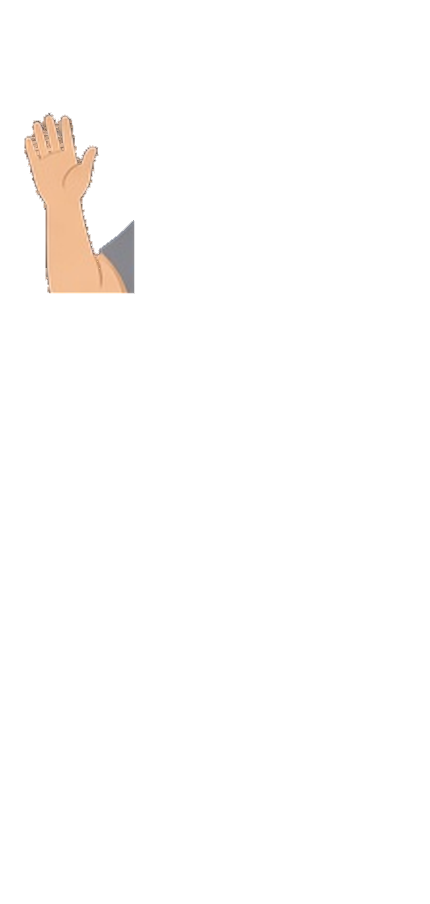
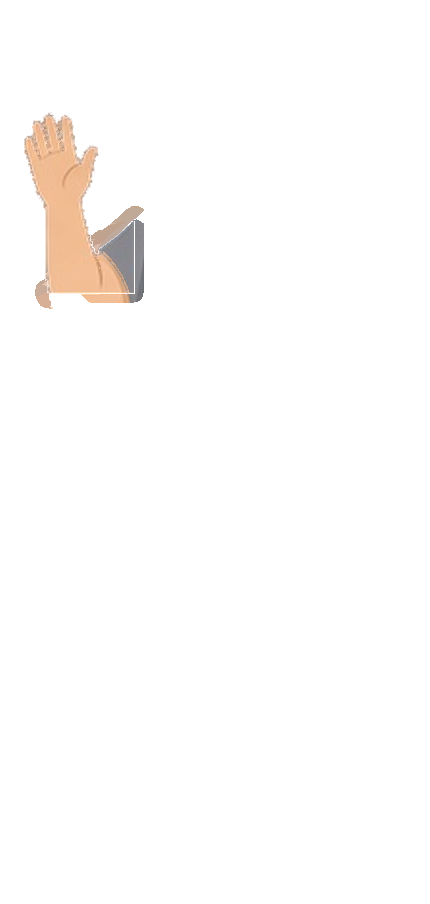
흔드는 팔의 이음새와 도넛 얼룩을 지우고 볼·하트·땀방울을 다듬는다.
팔 레이어와 소매 사이의 빈틈을 피부로 메워 어떤 각도에서도 검은 선이 보이지 않게 하고, 도넛과 손 사이의 남색 가장자리를 걷어냈다. 안기는 둥근 볼홍조와 밝은 하트만 남기고, 땀방울은 이마 옆에서 볼까지만 내려간다.

Changed region(s): [[0.1814, 0.2168, 0.3326, 0.3407], [0.0605, 0.2168, 0.1209, 0.3407], [0.0907, 0.1239, 0.1814, 0.1549]]

diff --git a/test/parse.test.js b/test/parse.test.js
@@ -113,18 +113,18 @@ assert.ok(ratio > 0.15 && ratio < 0.4, 'empty month keeps calendar space ' + rat
 const round = data.by.B[data.by.B.length - 1];
 const fig = I.bodySVG(round, '#c08cff', '', 183);
 assert.ok(fig.indexOf('bodyfig') >= 0 && fig.indexOf('NaN') < 0, 'silhouette');
-assert.ok(fig.indexOf('img/body/pose_bf30.webp?v=20261007e') >= 0, '30% pose');
+assert.ok(fig.indexOf('img/body/pose_bf30.webp?v=20261007f') >= 0, '30% pose');
 assert.ok(fig.indexOf('pose-poke') >= 0 && fig.indexOf('bf-over') < 0, 'nearest pose, no crossfade');
 assert.ok(fig.indexOf('pose_bf35') < 0, '30.8 stays on the 30 pose');
 const mid = I.bodySVG({ pbf: 23, height: 180 }, '#7c9cff', '', 180);
-assert.ok(mid.indexOf('pose-donut') >= 0 && mid.indexOf('pose_bf25.webp?v=20261007e') >= 0, '23% uses the donut pose');
+assert.ok(mid.indexOf('pose-donut') >= 0 && mid.indexOf('pose_bf25.webp?v=20261007f') >= 0, '23% uses the donut pose');
 assert.ok(mid.indexOf('pose_bf20') < 0, '23% does not mix poses');
 const lean = I.bodySVG({ pbf: 12.4, height: 183 }, '#7c9cff', '', 183);
-assert.ok(lean.indexOf('pose-flex') >= 0 && lean.indexOf('pose_bf10.webp?v=20261007e') >= 0, '12.4 flexes');
+assert.ok(lean.indexOf('pose-flex') >= 0 && lean.indexOf('pose_bf10.webp?v=20261007f') >= 0, '12.4 flexes');
 const exact = I.bodySVG({ pbf: 20, height: 180 }, '#7c9cff', '', 180);
 assert.ok(exact.indexOf('pose-wave') >= 0 && exact.indexOf('bf-over') < 0, 'exact anchor is one pose');
 const html = fs.readFileSync(path.join(root, 'index.html'), 'utf8');
-assert.ok(html.indexOf('styles.css?v=20261007e') >= 0 && html.indexOf('app.js?v=20261007e') >= 0, 'cache bust');
+assert.ok(html.indexOf('styles.css?v=20261007f') >= 0 && html.indexOf('app.js?v=20261007f') >= 0, 'cache bust');
 const shape = I.bodyShape(round);
 assert.ok(shape.f > 0.85, 'high body fat is round ' + shape.f);
 assert.ok(shape.m < 0.7, 'muscle stays skeletal ' + shape.m);

diff --git a/styles.css b/styles.css
@@ -255,16 +255,30 @@ h1 {
 }
 .floater { animation: pose-float 3.4s ease-in-out infinite; animation-delay: var(--phase, 0s); }
 .heart {
-  color: #ff8fab;
-  font-size: calc(var(--fig-h, 168px) * var(--h, 1) * .1);
-  margin-left: -.45em;
+  width: 8.4%;
+  height: 8.4%;
+  margin: -4.2% 0 0 -4.2%;
 }
-.marks {
-  color: #ff9cb4;
-  font-weight: 800;
-  letter-spacing: -.14em;
-  font-size: calc(var(--fig-h, 168px) * var(--h, 1) * .065);
+.heart b {
+  display: block;
+  width: 52%;
+  height: 52%;
+  margin: 28% 0 0 24%;
+  background: #ff3b6a;
+  position: relative;
+  transform: rotate(45deg);
 }
+.heart b::before,
+.heart b::after {
+  content: "";
+  position: absolute;
+  width: 100%;
+  height: 100%;
+  background: #ff3b6a;
+  border-radius: 50%;
+}
+.heart b::before { left: -50%; }
+.heart b::after { top: -50%; }
 @keyframes pose-flex {
   0%, 100% { transform: translateY(0) rotate(0deg); }
   16% { transform: translateY(-10px) rotate(-3.4deg); }
@@ -319,10 +333,10 @@ h1 {
   40% { opacity: 1; }
 }
 @keyframes pose-sweat {
-  0%, 12% { opacity: 0; transform: translateY(0); }
-  28% { opacity: .95; transform: translateY(10%); }
-  78% { opacity: .55; transform: translateY(280%); }
-  100% { opacity: 0; transform: translateY(420%); }
+  0%, 16% { opacity: 0; transform: translateY(0); }
+  30% { opacity: .95; transform: translateY(6%); }
+  68% { opacity: .55; transform: translateY(55%); }
+  100% { opacity: 0; transform: translateY(90%); }
 }
 @keyframes pose-float {
   0%, 100% { opacity: 0; transform: translateY(6px) rotate(-8deg); }

diff --git a/figure.js b/figure.js
@@ -26,7 +26,7 @@ function bodyBand(pbf) {
   const t = (raw - lo) / 5;
   return { lo: lo, hi: hi, t: t, scaleX: 1 + 0.03 * Math.sin(Math.PI * t), pbf: raw };
 }
-var ASSET_V = '20261007e';
+var ASSET_V = '20261007f';
 var POSE = { 10: 'flex', 15: 'jog', 20: 'wave', 25: 'donut', 30: 'poke', 35: 'hug' };
 var SPARKS = [[28.4, 5.2], [17.5, 9.0], [11.3, 13.7], [42.3, 16.9]];
 var BLUSH = {
@@ -73,11 +73,8 @@ function bodySVG(r, color, cls, maxCm) {
     extra = BLUSH[pose].map(function (p, i) {
       return at('blush', p[0], p[1], i * 0.2);
     }).join('');
-    if (anchor === 30) extra += at('sweat', 61.5, 12.4, 0.15);
-    if (anchor === 35) {
-      extra += at('floater heart', 66, 11, 0.2, '♥');
-      extra += at('floater marks', 33.5, 15.5, 0.85, '///');
-    }
+    if (anchor === 30) extra += at('sweat', 56.4, 14.2, 0.15);
+    if (anchor === 35) extra += at('floater heart', 63.5, 14.8, 0.2, '<b></b>');
   }
   return '<div class="bodyfig pose-' + pose + ' ' + (cls || '') + '" role="img" aria-label="' + aria + '"' +
     ' data-pbf="' + (rec.pbf == null ? '' : (+rec.pbf).toFixed(1)) + '"' +

diff --git a/index.html b/index.html
@@ -15,7 +15,7 @@
 <link rel="icon" href="icon-180.png" sizes="180x180">
 <link rel="icon" href="icon-512.png" sizes="512x512">
 <link rel="manifest" href="manifest.webmanifest">
-<link rel="stylesheet" href="styles.css?v=20261007e">
+<link rel="stylesheet" href="styles.css?v=20261007f">
 </head>
 <body>
 <div class="wrap">
@@ -41,10 +41,10 @@
     <div id="modeNote">이 화면은 인바디 용지에 적힌 값과 판정만 옮겨 보여 줍니다. 목표는 시트 ‘목표’ 탭 값입니다.</div>
   </footer>
 </div>
-<script src="parse.js?v=20261007e"></script>
-<script src="figure.js?v=20261007e"></script>
-<script src="charts.js?v=20261007e"></script>
-<script src="demo.js?v=20261007e"></script>
-<script src="app.js?v=20261007e"></script>
+<script src="parse.js?v=20261007f"></script>
+<script src="figure.js?v=20261007f"></script>
+<script src="charts.js?v=20261007f"></script>
+<script src="demo.js?v=20261007f"></script>
+<script src="app.js?v=20261007f"></script>
 </body>
 </html>

diff --git a/CHANGES.md b/CHANGES.md
@@ -45,8 +45,8 @@
 - 여섯 장의 피부, 셔츠, 반바지 색과 키에 맞춘 크기를 같게 맞췄습니다.
 - 옆 사람의 잘린 조각과 남색 테두리는 그림에서 뺐습니다. 발밑에는 옅은 그림자만 있습니다.
 - 그림은 원본을 한 번 2배로 키운 뒤 잘라, 화면에서 가장 크게 보일 때보다 가로·세로가 3배 넘게 큽니다. 가장자리는 한 겹만 부드럽게 남겼고, 흔들림은 옮기고 돌리기만 해서 그림이 다시 흐려지지 않습니다.
-- 흔드는 손의 검은 손목 선과 그림 안쪽의 남색 점을 지웠습니다. 포즈마다 동작이 조금 더 드러납니다. 자랑은 통통 튀고 반짝임이 차례로 켜지고, 조깅은 두 박자로 뛰며 수건 쪽이 같이 흔들리고, 인사는 팔만 크게 흔들며 물병은 거의 그대로이고, 도넛은 몸을 기울이며 옆에서 나왔다 들어가고, 배 찌르기는 살짝 출렁이며 땀방울이 내려가고, 안기는 천천히 좌우로 기울며 하트와 볼 표시가 뜹니다.
-- `styles.css`, 스크립트, `img/body` 주소에는 `?v=20261007e`를 붙였습니다.
+- 흔드는 팔은 소매와 이어진 한 덩이 피부로 보이게 이음새를 메웠습니다. 도넛과 손 사이의 남색 얼룩을 지웠습니다. 안기는 볼에 둥근 홍조만 두고, 하트는 밝고 작은 모양으로 떠올랐다 사라집니다. 배 찌르기의 땀방울은 이마 옆에 있다가 볼을 따라 조금 내려갑니다.
+- `styles.css`, 스크립트, `img/body` 주소에는 `?v=20261007f`를 붙였습니다.
 - 한 화면에 같이 있는 사람 중 가장 큰 키를 기준으로 그림 높이를 줄입니다. 발은 같은 선에 둡니다.
 - 사람 색은 그림 뒤의 은은한 빛으로만 쓰고, 그림 자체는 다시 칠하지 않습니다.
 - 상세에는 처음, 지금, 24주 목표를 같은 키로 나란히 둡니다.
